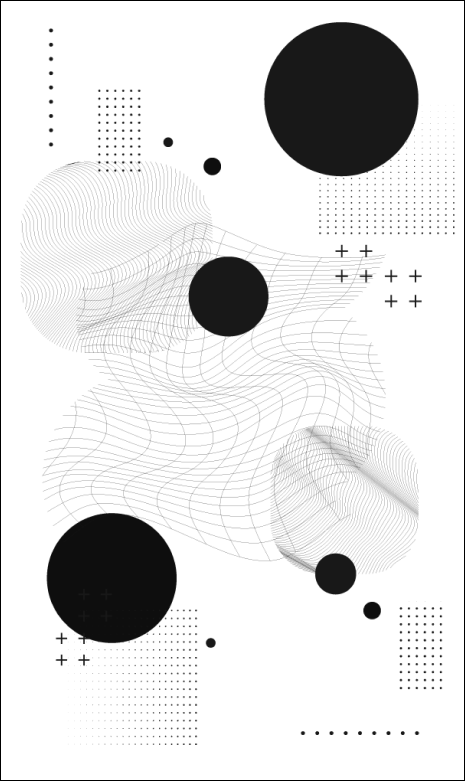
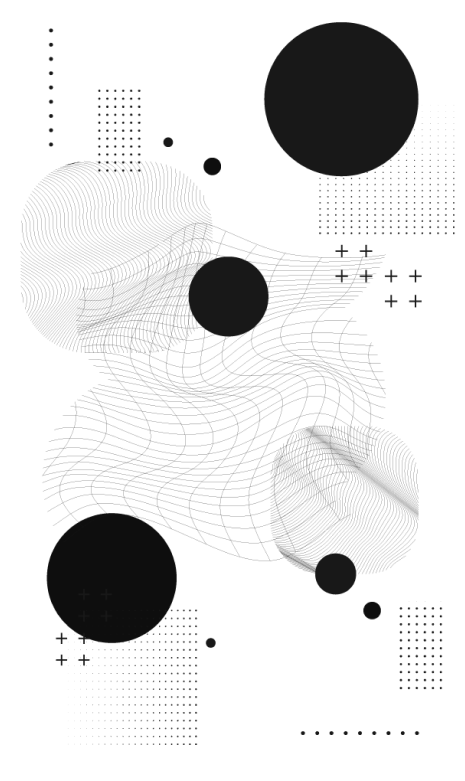
after darkmode

Changed region(s): [[0.9935, 0.0, 1.0, 1.0], [0.0, 0.9834, 0.0301, 1.0], [0.0, 0.0, 0.0301, 0.0307]]

diff --git a/index.html b/index.html
@@ -35,7 +35,20 @@
                             <a href="https://www.google.com/" target="_blank">CONTACT</a>
                         </div>
                         <div class="darkmode">
-                                <span class="material-symbols-outlined" >dark_mode</span>
+                                <span class="material-symbols-outlined" onclick="darkMode()">dark_mode
+                                    <script>
+                                        function darkMode() {
+                                          var element = document.body;
+                                          let theme = element.getAttribute("theme");
+                                          if (theme === "dark") {
+                                            element.setAttribute("theme", "light");
+                                          }
+                                          else {
+                                            element.setAttribute("theme", "dark");
+                                          }
+                                        }
+                                    </script>
+                                </span>
                         </div>
                     </div>
                 </div>

diff --git a/styles.css/common.css b/styles.css/common.css
@@ -8,34 +8,40 @@ body {
     display: flex;
     flex-direction: column;
     gap: 30px;
+    color: var(--black-color);
 }
 
 h1 {
     font-size: 75px;
     font-weight: 900;
     margin: 5px 0px;
+    color: var(--black-color);
 }
 
 h2 {
     font-size: 45px ;
     font-weight: 700 ;
     margin: 5px 0px;
+    color: var(--black-color);
 }
 
 h3 {
     font-size: 20px;
     font-weight: 700;
     margin: 5px 0px;
+    color: var(--black-color);
 }
 
 h4 {
     font-size: 25px;
     font-weight: 700;
     margin: 5px 0px;
+    color: var(--black-color);
 }
 
 h6 {
     font-size: 15px;
     font-weight: 400;
     margin: 5px 0px;
+    color: var(--black-color);
 }

diff --git a/styles.css/contact.css b/styles.css/contact.css
@@ -15,6 +15,7 @@
 .contact-section > .vector-column > .vector-container img{
     width: 100%;
     height: auto;
+    filter: var(--c-img-filter);
 }
 
 .contact-section > .entry-column {
@@ -68,6 +69,7 @@
     align-items: center;
     background-color: var(--white-color);
     border: 2px solid var(--black-color);
+    color: var(--black-color);
     font-size: 20px;
     font-weight: 700;
     width: 250px;

diff --git a/styles.css/color-schema.css b/styles.css/color-schema.css
@@ -1,14 +1,17 @@
 :root {
     --white-color: white;
     --black-color: black;
+    --c-img-filter: invert(0%);
   }
 
   body[theme="light"] {
     --white-color: white;
     --black-color: black;
+    --c-img-filter: invert(0%);
   }
 
   body[theme="dark"] {
-    --white-color: black;
+    --white-color: rgb(47, 47, 47);
     --black-color: white;
+    --c-img-filter: invert(100%);
   }

diff --git a/styles.css/home-section.css b/styles.css/home-section.css
@@ -84,6 +84,10 @@
     align-items: center;
 }
 
+.home > .mouse-scroll-container img {
+    filter: var(--c-img-filter);
+}
+
 /* ---------- right side image styles ---------- */
 
 .home > .left-right-sides > .right-side-container  {

diff --git a/styles.css/header.css b/styles.css/header.css
@@ -9,12 +9,12 @@
     display: flex;
     justify-content: center;
     align-items: center;
-
 }
 
 .header > .logo img {
     width: 100px;
     height: auto;
+    filter: var(--c-img-filter);
 }
 
 .header > .links-wrapper  {
